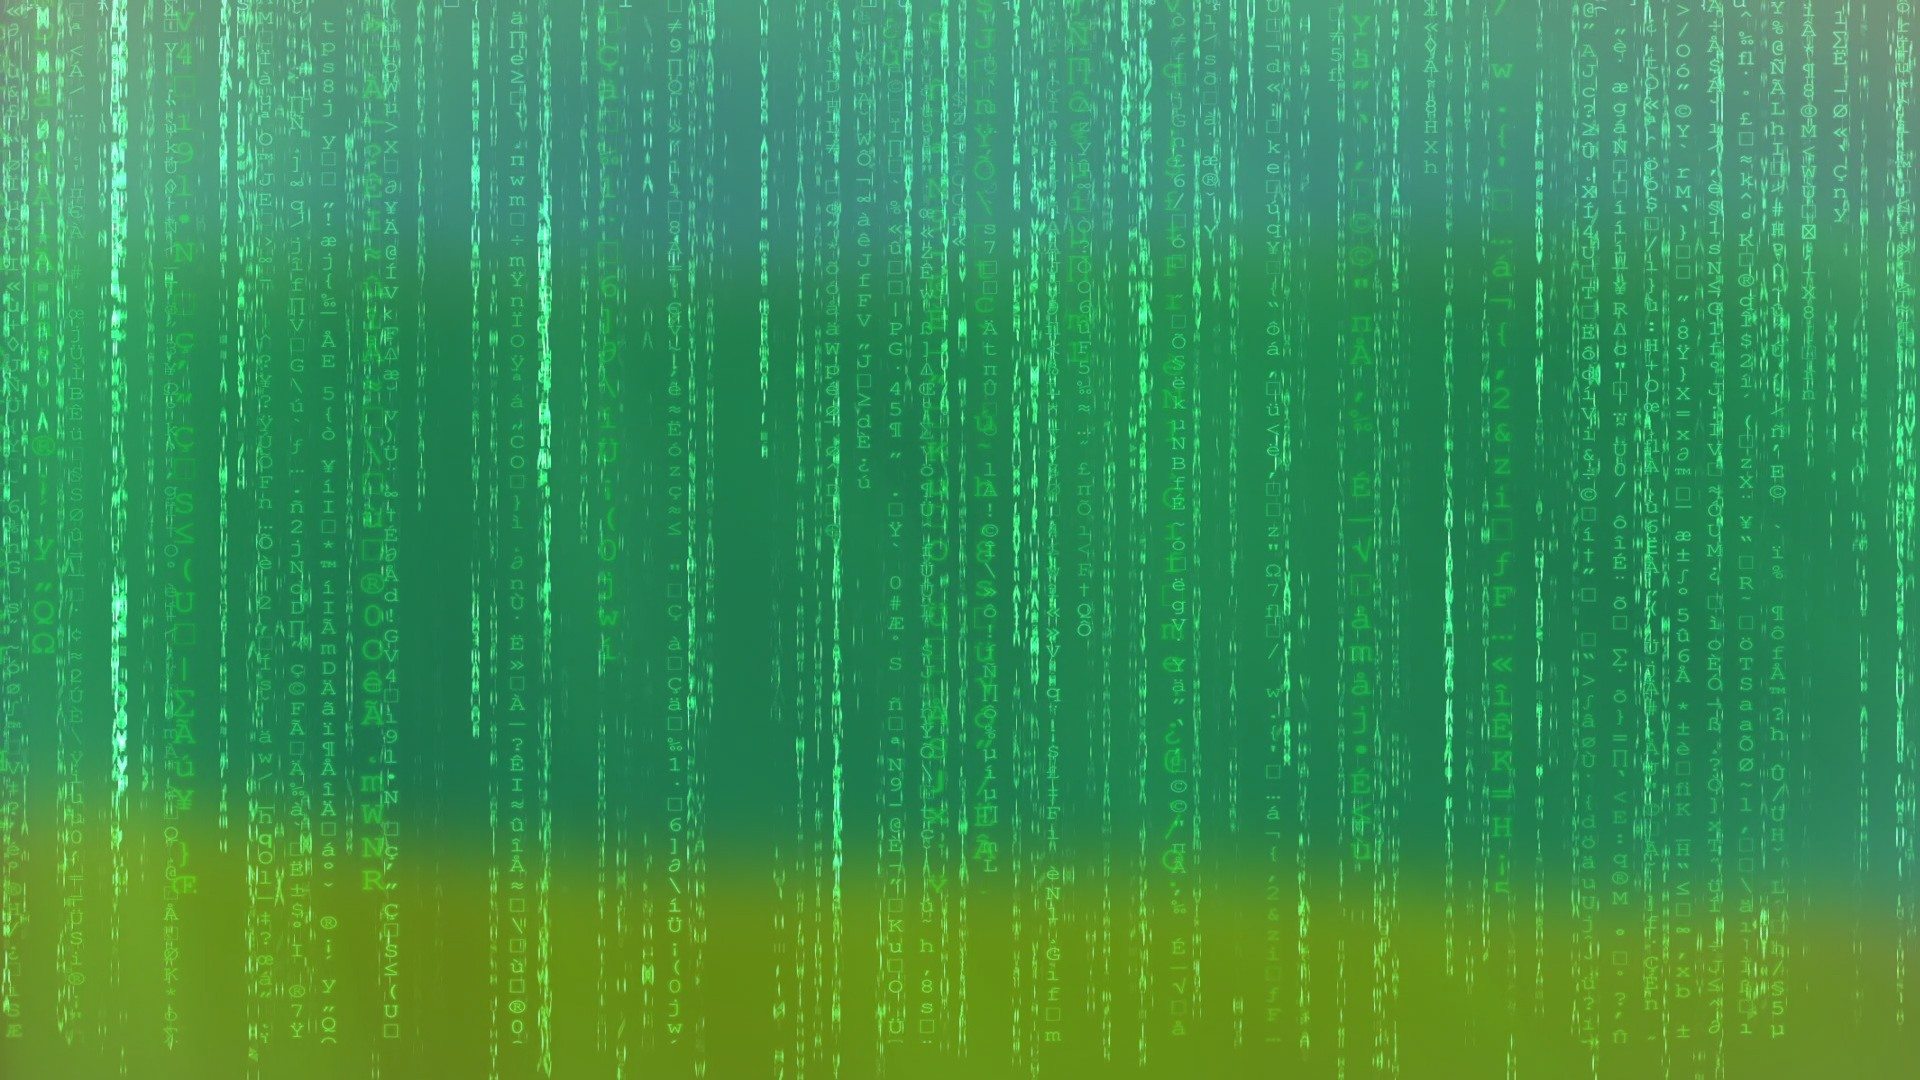
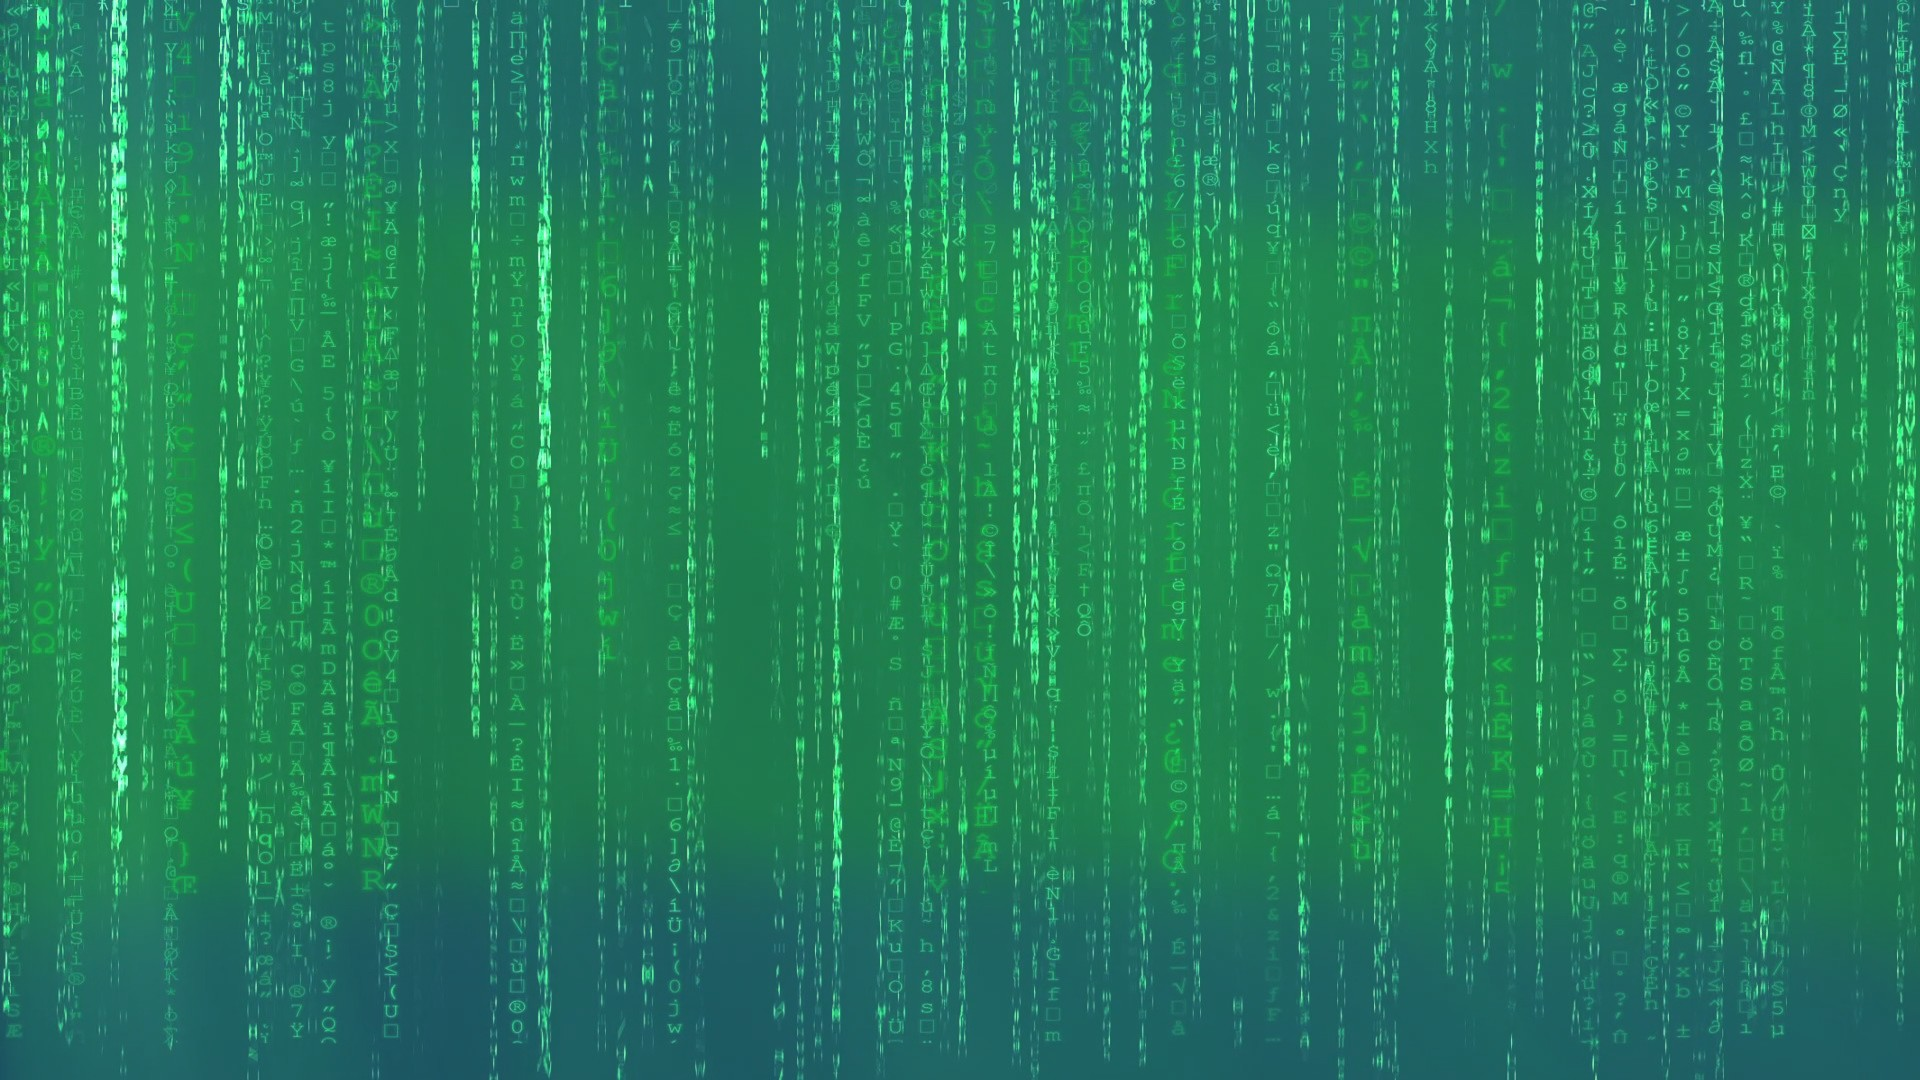
piano certificates
also changed background

diff --git a/index.html b/index.html
@@ -45,6 +45,12 @@
         <p class="text" style="margin-left: 100px">My solo at a piano recital. I passed the RCM level 8 theory and practical piano examinations in 2019, and am now pursuing music as a hobby even further.</p>
         <!-- Awards -->
         <h2 id="awards">Awards</h2>
+        <img src="pianocertificate.jpg" width=500px style="margin-left: 100px">
+        <p class="text" style="margin-left: 100px">RCM Level 8 Piano Certificate, First Class Honours.</p>
+        
+        <img src="theorycertificate.jpg" width=500px style="margin-left: 100px">
+        <p class="text" style="margin-left: 100px">RCM Level 8 Theory Certificate, First Class Honours With Distinction.</p>
+        
         <img src="belt.jpg" width=300px style="margin-left: 100px">
         <img src="karatecertificate.jpg" width=535px style="margin-left: 100px">
         <p class="text" style="margin-left: 100px">Shodan black belt and official certificate received from Northern Karate Schools in Aurora, earned in 2019 and 2020 after around 5 years of training.</p>

diff --git a/portfolio.css b/portfolio.css
@@ -55,7 +55,7 @@ h1 {
 
 
 body {
-    background: url("space.png") no-repeat center top, url("green.jpg") no-repeat center 15%, url("yellow.jpg") no-repeat center 30%, url("red.jpg") no-repeat center 45% / 1920px 1080px, url("orange.jpg") no-repeat center 60% / 1920px 1080px, url("yellow2.jpg") no-repeat center 75% / 1920px 1080px, url("grass.jpg") no-repeat center 90% / 1920px 1080px, url("water.jpg") no-repeat center bottom / 1920px 1080px;
+    background: url("space.png") no-repeat center top, url("green.jpg") no-repeat center 10%, url("space.png") no-repeat center 20%, url("green.jpg") no-repeat center 30%, url("space.png") no-repeat center 40%, url("green.jpg") no-repeat center 50%, url("space.png") no-repeat center 60%, url("green.jpg") no-repeat center 70%, url("space.png") no-repeat center 80%, url("green.jpg") no-repeat center 90%, url("space.png") no-repeat center 100%;
 }
 
 html {
